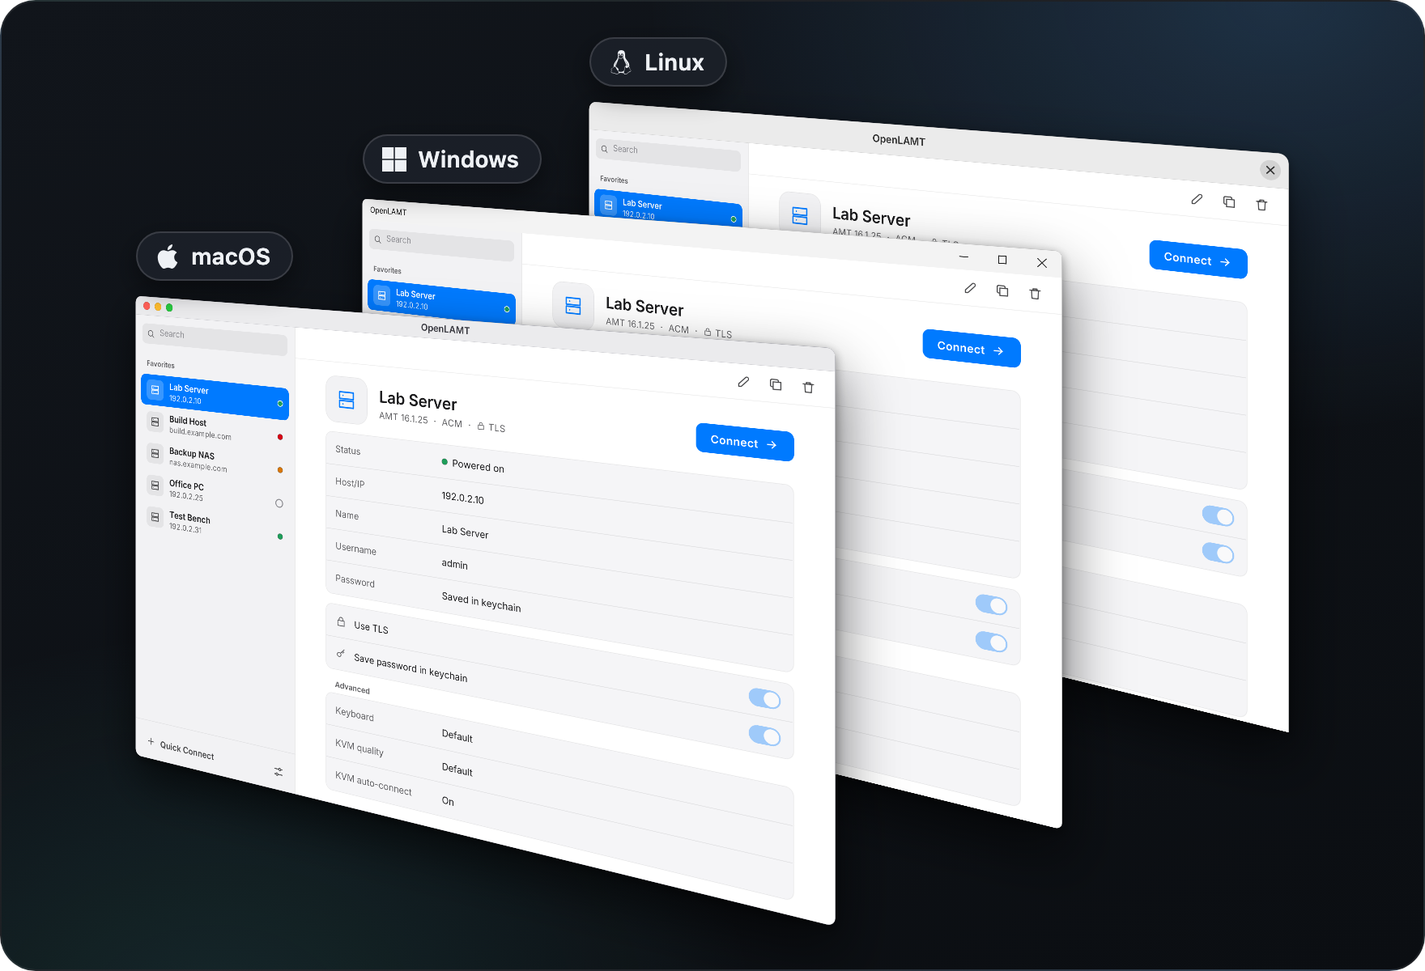
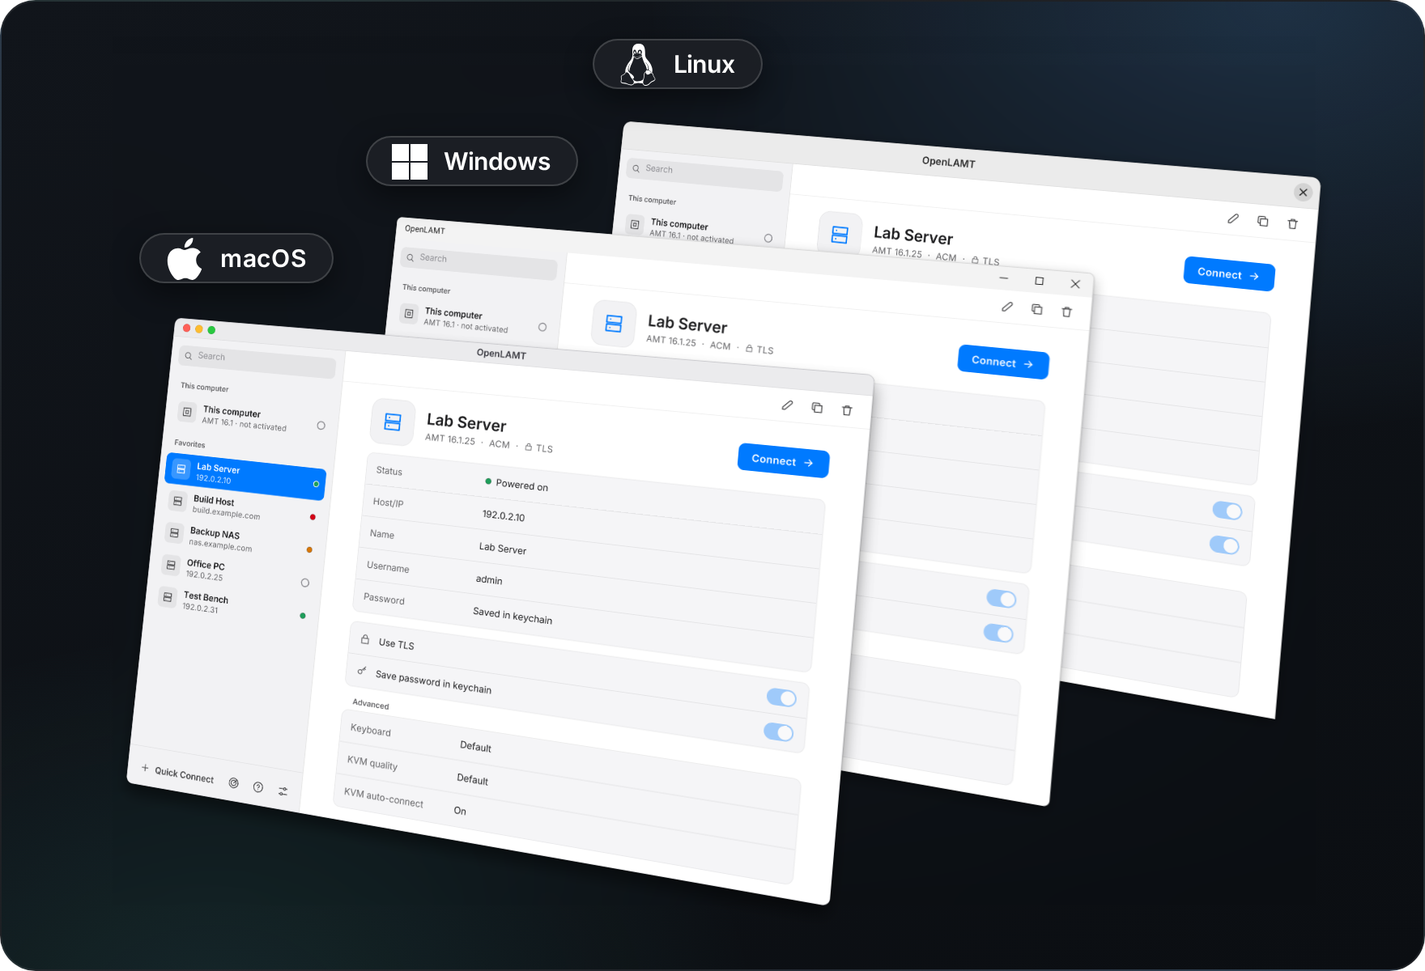
docs: refresh README with MCP, new features and current screenshots
- Download and User guide buttons under the claim
- New sections: Find your devices, Let an AI agent run your devices,
  And more; shorter MCP details that point to the MCP guide
- Re-rendered hero, favorites, cross-platform, power, settings and
  trust shots with the current UI; new scan, MCP client and
  System Defense shots
- MCP guide (EN and DE): the action log is written without a config
  file, and the mount question says when IDE-R gets turned on

diff --git a/site/de/mcp.html b/site/de/mcp.html
@@ -135,7 +135,7 @@
   <li><code>media_boot_next</code> lässt das Gerät beim nächsten Start vom Abbild booten. <code>boot_from_iso</code> startet es jetzt vom Abbild neu; ein ausgeschaltetes Gerät wird nur eingeschaltet. <code>media_status</code> zeigt, was eingehängt ist und wie schnell das Gerät es liest.</li>
   <li>Das Abbild bleibt eingehängt bis <code>media_unmount</code>, bis das Gerät die Sitzung beendet oder bis der Client den Server beendet. Die mit <code>media_boot_next</code> gesetzte Boot-Option wird dann gelöscht. Scheitert ein Boot vom Abbild auf halbem Weg, löscht <code>media_unmount</code> die Boot-Option ebenfalls.</li>
   <li>Eine Mediensitzung pro Gerät: Solange der Agent sie hält, kann das Menü „Medien“ der App auf diesem Gerät nichts einhängen, und umgekehrt.</li>
-  <li>Ist die Medienumleitung (IDE-R) ausgeschaltet, schaltet <code>media_mount</code> sie ein, und sie bleibt eingeschaltet. Dafür braucht es die Gruppe <code>settings</code>.</li>
+  <li>Ist die Medienumleitung (IDE-R) ausgeschaltet, schaltet <code>media_mount</code> sie ein, und sie bleibt eingeschaltet. Dafür braucht es die Gruppe <code>settings</code>. Mit <code>require_client_confirmation</code> sagt dir die Rückfrage zum Einhängen, dass IDE-R eingeschaltet wird.</li>
 </ul>
 <div class="warn"><b>Ein eingehängter Ordner ist am Gerät lesbar.</b>Wer das Gerät oder seinen Fernbildschirm nutzt, kann jede Datei eines eingehängten Ordners lesen. <code>openlamt-mcp</code> lehnt deshalb einige Ordner ab, aber die Liste kann nicht jeden Ort mit Geheimnissen abdecken. Setze <code>media.allowed_paths</code> auf die Ordner mit deinen Abbildern.</div>
 <div class="prose">
@@ -172,7 +172,7 @@
 </div>
 
 <h2 id="config">Begrenzen, was der Agent darf</h2>
-<div class="warn"><b>Ohne Konfigurationsdatei ist alles erlaubt.</b>Jeder Favorit und jede Aktion; nur die orangen und roten Änderungen an Einstellungen und Konten fragen nach. Schreib eine Konfigurationsdatei, bevor du deine Geräte einem Agenten überlässt, dem du nicht ganz vertraust.</div>
+<div class="warn"><b>Ohne Konfigurationsdatei ist alles erlaubt.</b>Jeder Favorit und jede Aktion; nur die orangen und roten Änderungen an Einstellungen und Konten fragen nach. Das Aktionsprotokoll wird trotzdem geschrieben. Schreib eine Konfigurationsdatei, bevor du deine Geräte einem Agenten überlässt, dem du nicht ganz vertraust.</div>
 <div class="prose">
 <p>Die Konfigurationsdatei ist <code>openlamt-mcp.json</code> neben <code>favorites.json</code> in deinem Konfigurationsordner, oder die Datei, die du mit <code>--config &lt;path&gt;</code> angibst. Das sind die Standardwerte:</p>
 <pre><code>{

diff --git a/site/mcp.html b/site/mcp.html
@@ -135,7 +135,7 @@
   <li><code>media_boot_next</code> makes the device boot from the image at its next start. <code>boot_from_iso</code> restarts it from the image now; a device that is off is only powered on. <code>media_status</code> shows what is mounted and how fast the device reads it.</li>
   <li>The image stays mounted until <code>media_unmount</code>, until the device ends the session, or until the client stops the server. The boot option set with <code>media_boot_next</code> is cleared then. If a boot from the image fails halfway, <code>media_unmount</code> clears the boot option as well.</li>
   <li>One media session per device: while the agent holds it, the app’s Media menu cannot mount on that device, and the other way round.</li>
-  <li>If media redirection (IDE-R) is off, <code>media_mount</code> turns it on, and it stays on. That needs the group <code>settings</code>.</li>
+  <li>If media redirection (IDE-R) is off, <code>media_mount</code> turns it on, and it stays on. That needs the group <code>settings</code>. With <code>require_client_confirmation</code>, the mount question says that IDE-R will be turned on.</li>
 </ul>
 <div class="warn"><b>A mounted folder can be read on the device.</b>Whoever uses the device, or its remote screen, can read every file of a mounted folder. <code>openlamt-mcp</code> therefore refuses some folders, but the list cannot cover every place with secrets. Set <code>media.allowed_paths</code> to the folders with your images.</div>
 <div class="prose">
@@ -172,7 +172,7 @@
 </div>
 
 <h2 id="config">Limit what the agent may do</h2>
-<div class="warn"><b>Without a config file, everything is allowed.</b>Every favorite and every action; only the orange and red settings and account changes ask. Write a config file before you hand your devices to an agent you do not fully trust.</div>
+<div class="warn"><b>Without a config file, everything is allowed.</b>Every favorite and every action; only the orange and red settings and account changes ask. The action log is written all the same. Write a config file before you hand your devices to an agent you do not fully trust.</div>
 <div class="prose">
 <p>The config file is <code>openlamt-mcp.json</code> next to <code>favorites.json</code> in your configuration folder, or the file given with <code>--config &lt;path&gt;</code>. These are the defaults:</p>
 <pre><code>{

diff --git a/README.md b/README.md
@@ -4,6 +4,8 @@
 
 **A local desktop app for Intel AMT, native on macOS, Windows and Linux: switch your devices on and off, use their screen and serial console, boot them from an ISO and manage their AMT settings, without a browser or a server.**
 
+<p align="center"><a href="https://github.com/Srv-02/openlamt/releases/latest"><img src="screenshots/btn-download.svg" alt="Download" height="44"></a>&nbsp;&nbsp;<a href="https://srv-02.github.io/OpenLAMT/"><img src="screenshots/btn-guide.svg" alt="User guide" height="44"></a></p>
+
 <br>
 
 <p align="center"><a href="https://www.buymeacoffee.com/michaelmayer"><img src="screenshots/bmc-button.png" alt="Buy me a coffee" height="64"></a></p>
@@ -23,7 +25,7 @@ Linux (x64)             OpenLAMT-<version>-linux-x64.AppImage  (any distribution
 
 Start OpenLAMT and connect to your first device with **Quick Connect**. The builds are not code-signed, so macOS and Windows warn on the first launch: see [Manual install](#manual-install).
 
-The [user guide](https://srv-02.github.io/OpenLAMT/) explains every window, page and Intel AMT setting step by step.
+The [user guide](https://srv-02.github.io/OpenLAMT/) explains every window, page and Intel AMT setting step by step, in English and [German](https://srv-02.github.io/OpenLAMT/de/).
 
 ## Features
 
@@ -35,15 +37,37 @@ The same app runs on macOS, Windows and Linux. No browser and no server in betwe
 
 ### All your devices at a glance
 
-![Start window with five favorites, their power state and the details of Lab Server](screenshots/favorites.png)
+![Start window with This computer, five favorites, their power state and the details of Lab Server](screenshots/favorites.png)
 
 Favorites keep each device with its settings, and a colored dot shows its power state. Passwords stay in the system keychain, never in a file.
+
+### Find your devices
+
+![The network scan with four Intel AMT devices found and two of them ticked](screenshots/scan.png)
+
+**Scan Network** finds Intel AMT devices in an address range and adds the ones you tick as favorites. The scan only reads and needs no password.
+
+- **Export and import:** move your favorites and settings to another computer. Passwords stay in the keychain.
+- **This computer (beta):** on Linux and Windows, check whether the computer in front of you has Intel AMT and whether it is activated.
 
 ### Power and remote screen in one window
 
 ![Device window with a remote BIOS screen over KVM and the Power menu open](screenshots/power.png)
 
 Each device opens in its own window with remote keyboard, video and mouse (KVM). Power on, power off, reset, power cycle, reboot into the BIOS, boot from a mounted ISO or shut down from the same toolbar.
+
+### Let an AI agent run your devices
+
+![An MCP client asks openlamt-mcp for the screen of Lab Server and gets the BIOS setup back](screenshots/mcp.png)
+
+`openlamt-mcp` connects your OpenLAMT favorites to an AI agent, such as Claude Desktop, Claude Code or any other MCP client. The agent can read status and logs, switch devices on and off, look at the screen and type, use the serial console and boot from an ISO. It runs on your computer and opens no network port.
+
+- Device passwords stay in the keychain and never reach the agent.
+- A config file limits the agent to some devices or actions, or to reading only.
+- Changes that can cut you off from a device always ask you first.
+- An action log records every tool call.
+
+Setup and every tool: [MCP server](#mcp-server-openlamt-mcp) below and the [MCP guide](https://srv-02.github.io/OpenLAMT/mcp.html).
 
 ### Boot from an ISO or a folder
 
@@ -63,7 +87,7 @@ Each device opens in its own window with remote keyboard, video and mouse (KVM).
 
 ![Device window with the remote screen and the device management sidebar on the Hardware page](screenshots/manage.png)
 
-**Manage** opens a sidebar next to the remote screen, or a window of its own, with five pages: hardware, event log, audit log, AMT settings and user accounts. The hardware page lists system, BIOS, processor, memory, drives and the AMT version.
+**Manage** opens a sidebar next to the remote screen, or a window of its own, with hardware, event log, audit log, AMT settings, user accounts and the pages listed under [And more](#and-more). The hardware page lists system, BIOS, processor, memory, drives and the AMT version.
 
 ### Event log and audit log
 
@@ -87,9 +111,25 @@ The first TLS connection shows the certificate fingerprint of the device. OpenLA
 
 ### Your language, your look
 
-![Settings with language, appearance, color blind mode, update check, KVM options and hidden messages](screenshots/settings.png)
+![Settings with language, appearance, color blind mode, update check, poll interval and KVM options](screenshots/settings.png)
 
 English or German, light, dark or system appearance, and status colors for red-green color blindness. Type the clipboard into the remote system in 16 keyboard layouts. **Reset Warnings** brings back every message you hid with "Don't show again".
+
+### And more
+
+![Device management in a window of its own on the System Defense page, with every page in the list on the left](screenshots/manage-more.png)
+
+- **Remote screen:** scale the picture, save a screenshot or record a video.
+- **Power:** Sleep and Hibernate, wake alarms that switch a device on at a set time, and the power policy.
+- **Boot options:** choose what the device starts from next, for example PXE or the BIOS setup, with options such as Secure Boot or locked buttons.
+- **One Click Recovery:** start a device once from a recovery image over HTTPS (Intel AMT 16 or later).
+- **Erase drives:** Remote Secure Erase and Remote Platform Erase, before you pass a device on.
+- **Certificates:** see, import and delete the certificates and trusted roots stored in AMT.
+- **Wi-Fi:** add, edit and delete the wireless profiles of a device.
+- **System Defense** (Intel AMT 11 and earlier): network filters and policies, and watchdogs for agents on the device.
+- **Event forwarding and audit settings:** send AMT events to a server, and choose what the audit log records.
+- **WSMAN Browser:** read the raw AMT, CIM and IPS classes of a device.
+- **Help on the spot:** the ⓘ next to an AMT setting explains what it does and, for risky settings, what can go wrong.
 
 ## Details
 
@@ -180,9 +220,7 @@ If a step does not work, the package stays in `~/Downloads` and OpenLAMT says ho
 
 ### MCP server (openlamt-mcp)
 
-`openlamt-mcp` lets an AI agent (Claude Desktop, Claude Code or any other MCP client) use your OpenLAMT favorites: read status, hardware, logs, settings and accounts, switch devices on and off, boot them into the BIOS or from an ISO file or a folder, look at the screen over KVM, type and use the mouse, read and write the serial console, and change AMT settings and accounts. The client starts it and talks to it over stdin and stdout. It opens no network port.
-
-**Install:** download the archive for your system from the [Releases page](https://github.com/Srv-02/openlamt/releases) and unpack it anywhere. It holds a single program without dependencies:
+`openlamt-mcp` is a separate program. Download the archive for your system from the [Releases page](https://github.com/Srv-02/openlamt/releases) and unpack it anywhere. It holds a single program without dependencies:
 
 ```text
 macOS (Apple Silicon)   openlamt-mcp-<version>-macos-arm64.tar.gz
@@ -190,68 +228,13 @@ Windows (x64)           openlamt-mcp-<version>-windows-x64.zip
 Linux (x64)             openlamt-mcp-<version>-linux-x64.tar.gz
 ```
 
-The program is not code-signed. On macOS, remove the quarantine attribute once (`xattr -d com.apple.quarantine openlamt-mcp`); on Windows, SmartScreen may warn on the first start. To build it yourself: `go build -o openlamt-mcp ./cmd/openlamt-mcp` (no C compiler needed). Then add it to your MCP client:
+Save the device passwords in the app first, then add the program to your MCP client:
 
 ```json
 {"mcpServers": {"openlamt": {"command": "/path/to/openlamt-mcp"}}}
 ```
 
-**Tools**, by tool group of the config file (below):
-
-| Group | Tools |
-|---|---|
-| always | `list_devices` (contacts no device) |
-| `read` | `device_status`, `hardware_info`, `event_log`, `audit_log`, `kvm_screenshot`, `sol_read` |
-| `read` or `kvm_input` | `kvm_connect`, `kvm_disconnect`, `sol_connect`, `sol_disconnect` |
-| `read` and `settings` | `get_settings` |
-| `read` and `users` | `list_users` |
-| `power_boot` | `power_action` (on, off, reset, cycle, shutdown), `boot_to_bios` |
-| `media` | `media_mount`, `media_unmount`, `media_status`, `media_boot_next`; with `power_boot` also `boot_from_iso` |
-| `kvm_input` | `kvm_send_keys`, `kvm_mouse`, `kvm_type_text`, `sol_type_text`, `sol_send_keys` |
-| `settings` | `set_general` (host name, domain, ping, dynamic DNS), `set_remote_features` (KVM, IDE-R, SOL, user consent), `sync_clock`, `set_tls_certificate` |
-| `settings` and `destructive` | `set_network`, `set_environment_detection`, `disable_amt_network` |
-| `users` | `add_user`, `update_user`, `set_user_enabled`, `delete_user` |
-| `users` and `destructive` | `set_admin_account` |
-
-- **Devices and passwords** come from the OpenLAMT favorites and the system keychain. Save the password in the app first; the device passwords never pass through the MCP connection. A TLS device works only after you connected once with the app and its certificate is pinned; the MCP server never trusts a new certificate. Devices without TLS work, with a warning in each answer.
-- **User consent:** if a device asks for consent (Client Control Mode), the agent has to ask a person at the device for the six-digit code on its screen (`boot_to_bios`, `kvm_connect`, `sol_connect`, `media_mount`). In `read_only` mode a consent request may still show a code on the device screen; it changes no setting.
-- **Remote screen:** `kvm_connect` opens the KVM session of a device and keeps it for the following calls. `kvm_screenshot` returns the screen as an image sized for AI models: by default at most 1280 pixels on the longest side, as JPEG. `kvm_send_keys` presses keys and combinations such as `Ctrl+Alt+Delete`, `kvm_mouse` moves, clicks and scrolls at a point of the last screenshot, and `kvm_type_text` types text for the keyboard layout of the favorite. AMT allows one KVM session per device: while the agent holds it, the app cannot connect KVM to that device, and the other way round. The session closes with `kvm_disconnect`, after five minutes without a call, or when the MCP client stops the server. Power off, power cycle and shutdown close it first, because AMT refuses them while KVM is open. If KVM is off on the device, `kvm_connect` turns it on. That is a settings change, so it needs the tool group `settings` and, with `require_client_confirmation`, your answer to a question; without `settings` the call says what to turn on. The wake key that `kvm_connect` presses on a new session needs the tool group `kvm_input`.
-- **Media:** `media_mount` mounts an `.iso` file or a folder on a device as a read-only CD drive. The agent gives its absolute path on the computer that runs `openlamt-mcp`. A folder becomes a temporary ISO first, as in the app. A big folder takes a while, and the build runs within the tool call, so an MCP client with a short tool timeout may abort it. `media_boot_next` makes the device boot from the image at its next start, `boot_from_iso` restarts it from the image now. `media_status` shows what is mounted and how fast the device reads it. The image stays mounted until `media_unmount`, until the device ends the session, or until the MCP client stops the server; the boot option set with `media_boot_next` is cleared then. AMT allows one media session per device: while the agent holds it, the app's Media menu cannot mount on that device, and the other way round. If media redirection (IDE-R) is off on the device, `media_mount` turns it on, and it stays on: only with the tool group `settings`, and with `require_client_confirmation` the mount question says so. A mounted folder can be read on the device, so `media_mount` resolves links first, checks that the file it opens is the one it checked, builds a folder image so that nothing outside the folder can end up in it (links inside are left out), and never mounts your home folder itself, a folder above it, or the folders that hold credentials and settings: `~/.ssh`, `~/.gnupg`, `~/.aws`, `~/.azure`, `~/.config`, `~/.local/share`, `~/.local/state`, `~/.kube`, `~/.docker`, `~/.password-store`, `~/.mozilla`, `~/.thunderbird`, `~/.pki`, `~/.claude`, `~/.cargo`, `~/.m2`, `~/.gradle`, `~/.terraform.d`, `~/.var/app`, `~/snap`, all of `~/Library` on macOS, `%APPDATA%` and `%LOCALAPPDATA%` on Windows, and the OpenLAMT configuration folder (favorites, `openlamt-mcp.json`, the action log). These folders are recognized by file identity, so another spelling of the same folder (a link, a bind mount, a macOS firmlink, a Windows junction) is refused too, and a folder image stops when one of them turns up inside; on Windows, `\\?\` and `\\.\` paths and administrative shares such as `\\host\C$` are refused. The list is best effort and cannot cover every place with secrets: set `media.allowed_paths` to the folders with your images.
-- **Serial console:** `sol_connect` opens the serial console (Serial over LAN) of a device. Its output goes into a buffer of 1 MiB per device. `sol_read` returns it as plain text and goes on where the last read ended. `sol_type_text` writes printable ASCII text, with line breaks as Enter, and `sol_send_keys` presses keys such as `Ctrl+C`, `Up` or `F10` as xterm sequences. A BIOS setup over the serial console often expects other codes for function keys; KVM works there too. AMT allows one serial console session per device: while the agent holds it, the app's Console view cannot connect, and the other way round. The session closes with `sol_disconnect`, after five minutes without a call, or when the MCP client stops the server. If SOL is off on the device, `sol_connect` turns it on, as `kvm_connect` does for KVM: only with the tool group `settings`, and with `require_client_confirmation` after a question.
-- **AMT settings and accounts:** `get_settings` and `list_users` show what the app's Settings and Users pages show; a section the account may not read is listed in `not_permitted`, one the firmware lacks in `not_available`. The other tools change what those pages change, with the same safeguards:
-  - A change the app writes at once (ping, switching a feature on, user consent, the clock, adding, editing or disabling another account) asks you in the MCP client only with `require_client_confirmation`. Switching a feature on counts as such a change also when `kvm_connect`, `sol_connect` or `media_mount` do it.
-  - A change the app guards with an **orange** warning (host name, domain, dynamic DNS, switching KVM, IDE-R or SOL off, the TLS certificate, changing the account the favorite signs in with, deleting an account, lowering the user consent policy) **always** asks you in the MCP client, whatever `require_client_confirmation` says. A client that cannot ask gets a refusal; make the change in the app then.
-  - A change with a **red** warning (network settings, environment detection, turning AMT off on the network, the admin account) can lock OpenLAMT out of the device. It needs the tool groups `settings` or `users` and `destructive`, the agent has to repeat the device name in `confirm`, and you are always asked.
-  - The question shows what changes and the app's warning. Your answer counts only for exactly these arguments and this favorite (its name, host and user): if one of them changes, it is refused.
-  - When the account the favorite signs in with or its certificate changes, the keychain and the favorite follow, as in the app.
-  - **Passwords** of new or changed accounts are tool arguments: the agent chooses them, so they are part of your conversation with it and of the MCP client's records. `openlamt-mcp` never writes them to the action log, a log line, an answer or a question. Without TLS the device receives the password as a digest that works like the password itself. Like the app, `openlamt-mcp` then **always** asks you in the MCP client before it sends one (`add_user`, `update_user`, `set_admin_account`), whatever `require_client_confirmation` says; the question and the answer warn about it. The same holds for `kvm_type_text` and `sol_type_text` with `secret` on a device without TLS. A client that cannot ask gets a refusal that names the reason; use TLS, the app, or a client with elicitation.
-- **Settings:** `openlamt-mcp.json` next to `favorites.json`, or the file given with `--config <path>`:
-
-  ```json
-  {
-    "read_only": false,
-    "allowed_devices": [],
-    "tool_groups": {"read": true, "power_boot": true, "media": true, "kvm_input": true,
-                    "settings": true, "users": true, "destructive": true},
-    "require_client_confirmation": false,
-    "action_log": {"enabled": true, "path": ""},
-    "kvm": {"idle_timeout_seconds": 300, "screenshot_max_width": 1280, "screenshot_max_height": 1280,
-            "screenshot_format": "jpeg", "screenshot_jpeg_quality": 80},
-    "sol": {"idle_timeout_seconds": 300},
-    "media": {"allowed_paths": []}
-  }
-  ```
-
-  - `read_only` leaves only the read tools: status, logs, settings and accounts, the screenshot and reading the serial console. It never writes a setting, never turns KVM, SOL or media redirection on and sends no input to the host.
-  - `allowed_devices` takes favorite names, empty means all.
-  - `tool_groups` switches the groups of the table above on and off. `destructive` covers every power action except power on, `boot_from_iso` on a device that is not off, and the red settings and account changes.
-  - `require_client_confirmation` asks you in the MCP client before each power action, each key, mouse or typing call, each mount and `media_boot_next`, and each settings or account change; orange and red changes ask always. The question shows every key, the text to type and the full path to mount, after links are resolved, with each line break (an Enter press) shown as ⏎ and invisible or direction-changing characters as their code point, unless the agent marks a single line without line breaks as `secret`; the question then says that the agent chose to hide it. A client that cannot ask gets a refusal.
-  - `kvm` sets the idle timeout of a KVM session (`0` keeps it open until the server stops) and the default size, format (`jpeg` or `png`) and quality of screenshots; the agent may ask for another size or format per call. `sol` sets the idle timeout of a serial console session.
-  - `media.allowed_paths` limits `media_mount` to the folders you list (absolute paths), empty means anywhere but the protected folders.
-  - `action_log` writes one line per tool call to `openlamt-mcp-actions.log` next to the config file unless you give another `path`. It holds the keys and mouse actions, the mounted paths and the settings changed, but never text typed over KVM or the serial console, a consent code or a password.
-  - Each key you leave out keeps the value shown above, and an unknown key stops the server.
-
-**Without a config file, everything is allowed:** every favorite and every action; only the orange and red settings and account changes ask. The action log is written all the same. Before you hand your devices to an agent you do not fully trust, write a config file. A good start: `read_only` for looking only; otherwise list the devices in `allowed_devices`, switch off the groups you do not need (`destructive`, `settings` and `users` first), turn on `require_client_confirmation`, and set `media.allowed_paths`.
+**Without a config file, everything is allowed:** every favorite and every action; only the risky settings and account changes ask. Before you hand your devices to an agent you do not fully trust, write a config file. The [MCP guide](https://srv-02.github.io/OpenLAMT/mcp.html) lists every tool and explains the config file `openlamt-mcp.json`, user consent, KVM, media, the serial console and the action log.
 
 ### Removing
 
